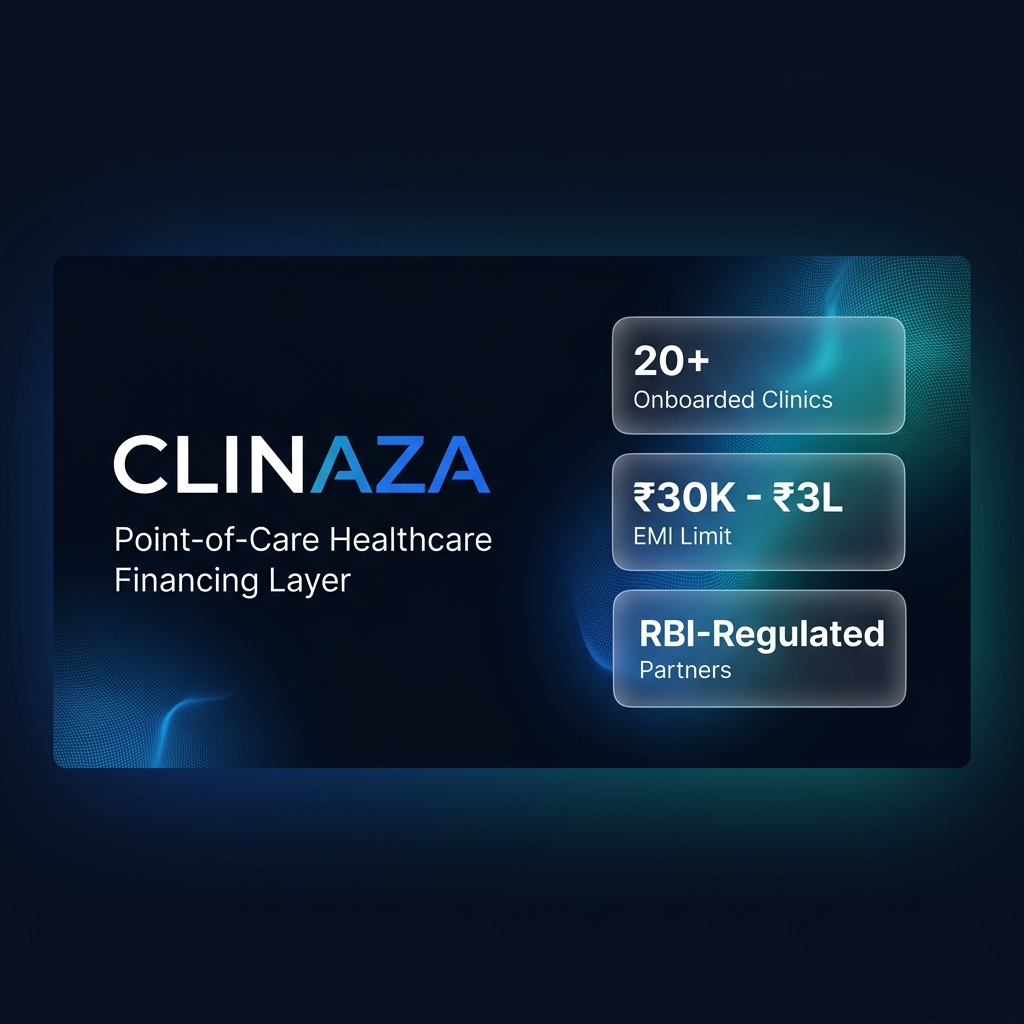
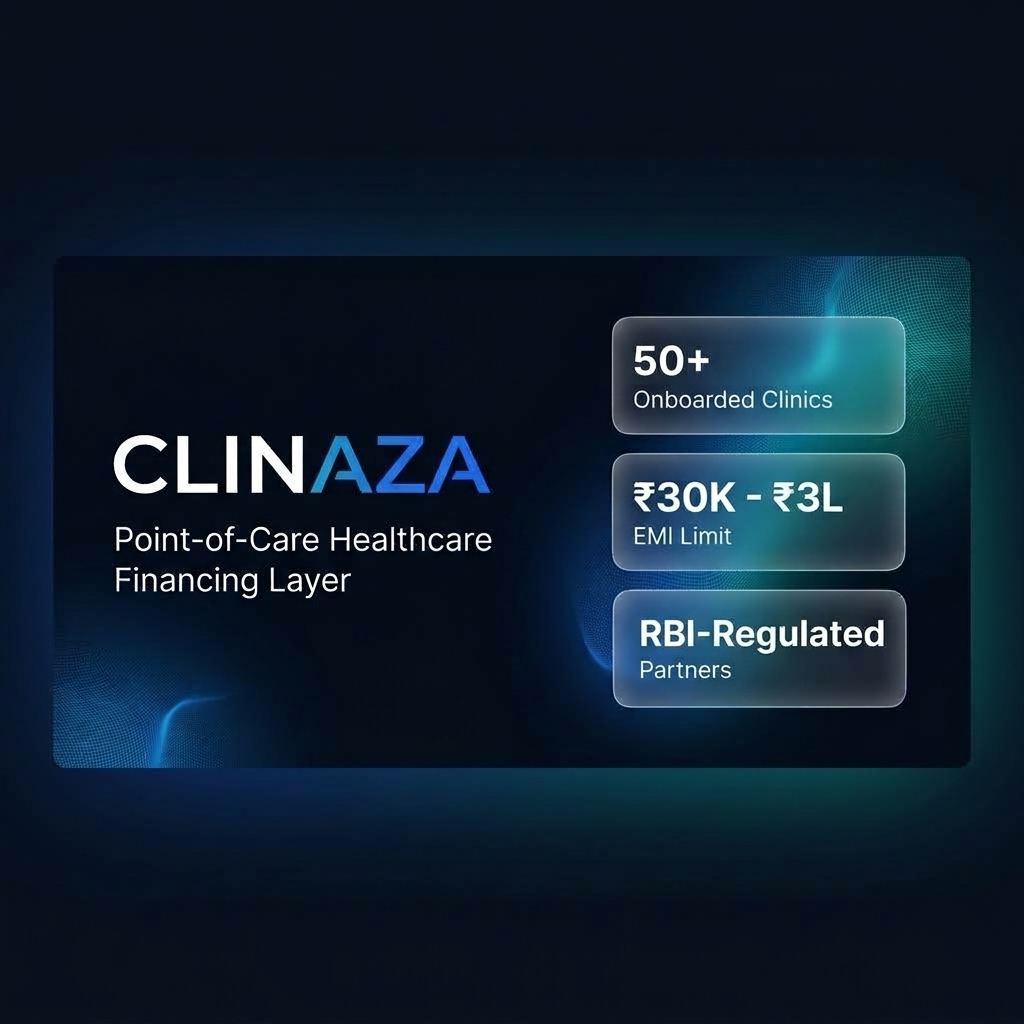
fix(seo): update og-preview image and pitch deck to 50+ onboarded clinics

diff --git a/src/pages/PitchDeckPage.tsx b/src/pages/PitchDeckPage.tsx
@@ -262,7 +262,7 @@ export default function PitchDeckPage() {
 
               <div className="grid grid-cols-2 md:grid-cols-4 gap-4 my-auto">
                 <div className="p-6 bg-gradient-to-br from-blue-50 to-white border border-blue-200 rounded-2xl text-center space-y-1">
-                  <span className="text-4xl sm:text-5xl font-black text-[#0867E8] block">20+</span>
+                  <span className="text-4xl sm:text-5xl font-black text-[#0867E8] block">50+</span>
                   <span className="text-xs font-bold text-[#0B2450] block uppercase tracking-wider">Clinics Onboarded</span>
                   <span className="text-[10px] text-slate-500 block">Dental centers in network</span>
                 </div>
@@ -448,7 +448,7 @@ export default function PitchDeckPage() {
                     <Building2 size={16} /> CLINAZA ROLE
                   </div>
                   <ul className="space-y-2 text-xs text-slate-600">
-                    <li className="flex items-start gap-1.5"><CheckCircle2 size={14} className="text-[#0867E8] shrink-0 mt-0.5" /> 20+ clinic network growth</li>
+                    <li className="flex items-start gap-1.5"><CheckCircle2 size={14} className="text-[#0867E8] shrink-0 mt-0.5" /> 50+ clinic network growth</li>
                     <li className="flex items-start gap-1.5"><CheckCircle2 size={14} className="text-[#0867E8] shrink-0 mt-0.5" /> Clinic onboarding & support</li>
                     <li className="flex items-start gap-1.5"><CheckCircle2 size={14} className="text-[#0867E8] shrink-0 mt-0.5" /> Patient application journey</li>
                     <li className="flex items-start gap-1.5"><CheckCircle2 size={14} className="text-[#0867E8] shrink-0 mt-0.5" /> Technical API integration</li>
@@ -555,7 +555,7 @@ export default function PitchDeckPage() {
 
                     <div className="flex items-start gap-3 p-3 bg-white border border-slate-200 rounded-xl shadow-2xs">
                       <span className="font-bold text-[#0867E8]">02</span>
-                      <span>Evaluate Clinaza's 20+ clinic network pipeline & demand</span>
+                      <span>Evaluate Clinaza's 50+ clinic network pipeline & demand</span>
                     </div>
 
                     <div className="flex items-start gap-3 p-3 bg-white border border-slate-200 rounded-xl shadow-2xs">
